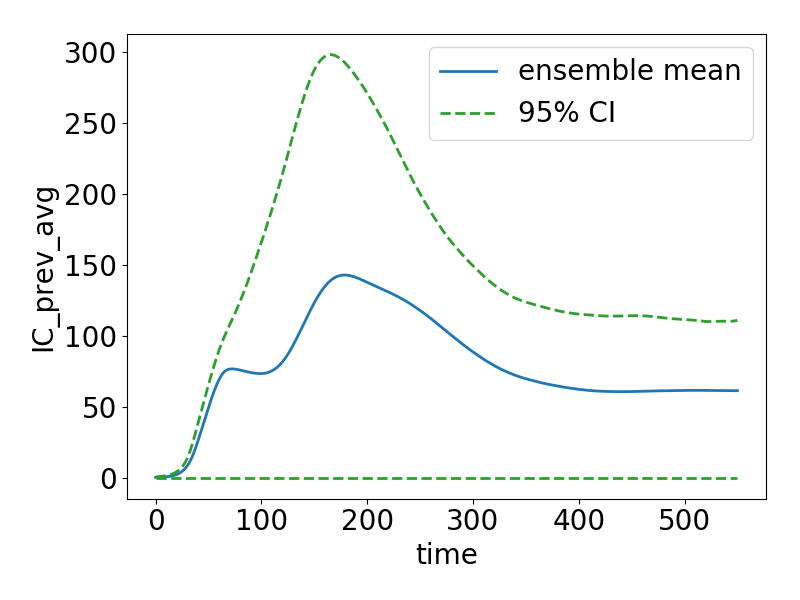
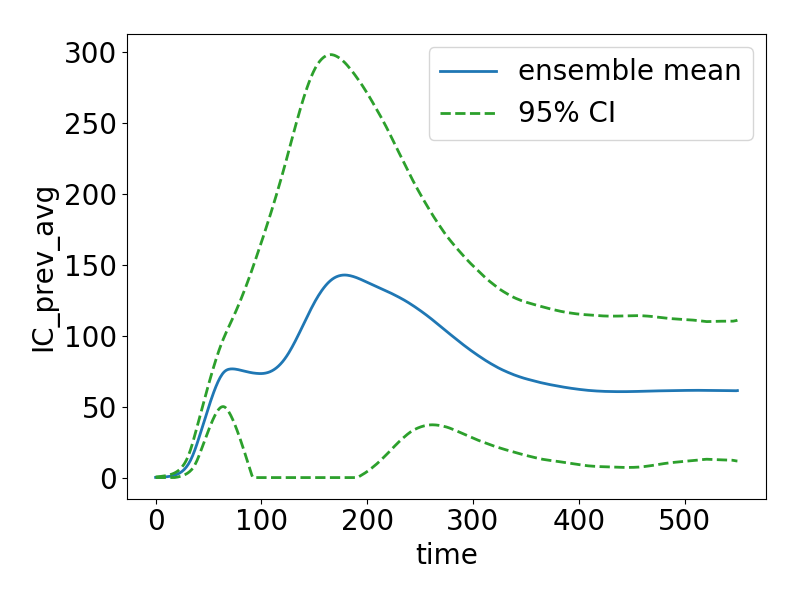
fix bug

diff --git a/EasyVVUQ/mean_var_post_proc_corona.py b/EasyVVUQ/mean_var_post_proc_corona.py
@@ -61,7 +61,7 @@ CI_up = np.zeros(L, dtype='float')
 
 for i in range(L):
     CI_low[i] = max(0, mean_IC_prev_avg[i]-1.96*std_IC_prev_avg[i])
-    CI_low[i] = max(0, mean_IC_prev_avg[i]+1.96*std_IC_prev_avg[i])
+    CI_up[i] = max(0, mean_IC_prev_avg[i]+1.96*std_IC_prev_avg[i])
 
 t = np.arange(start=0, stop=L, step=1)
 
